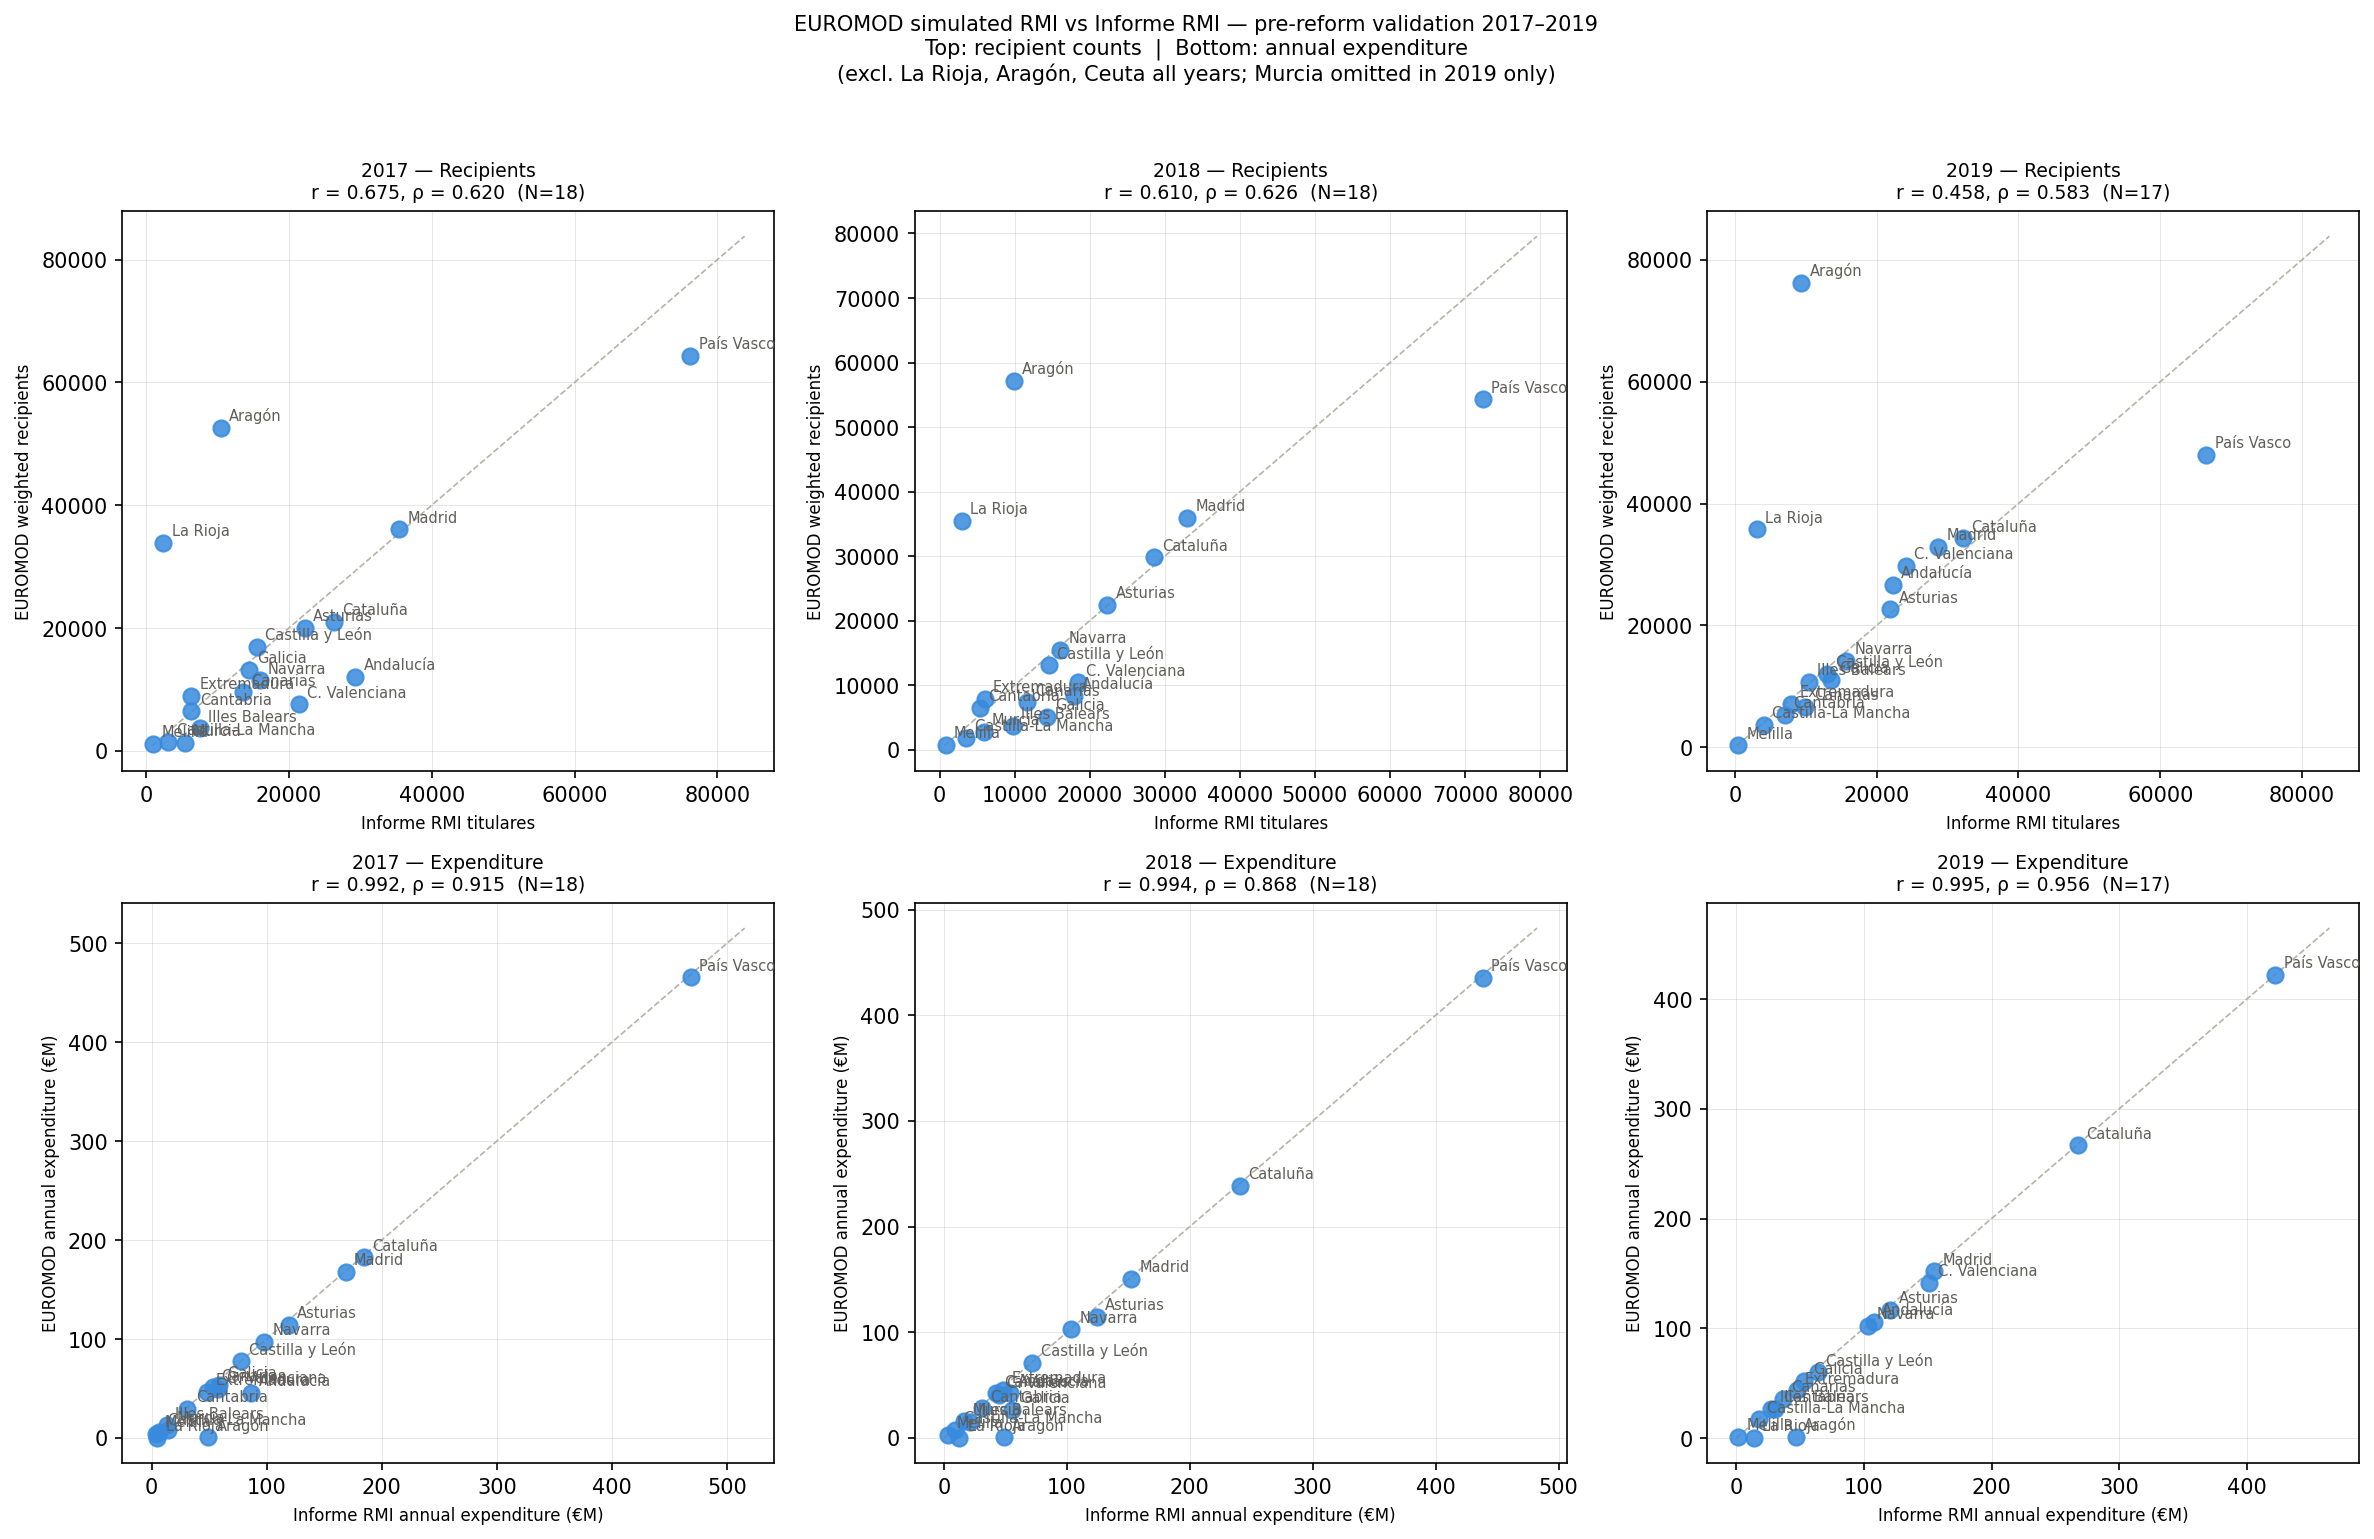
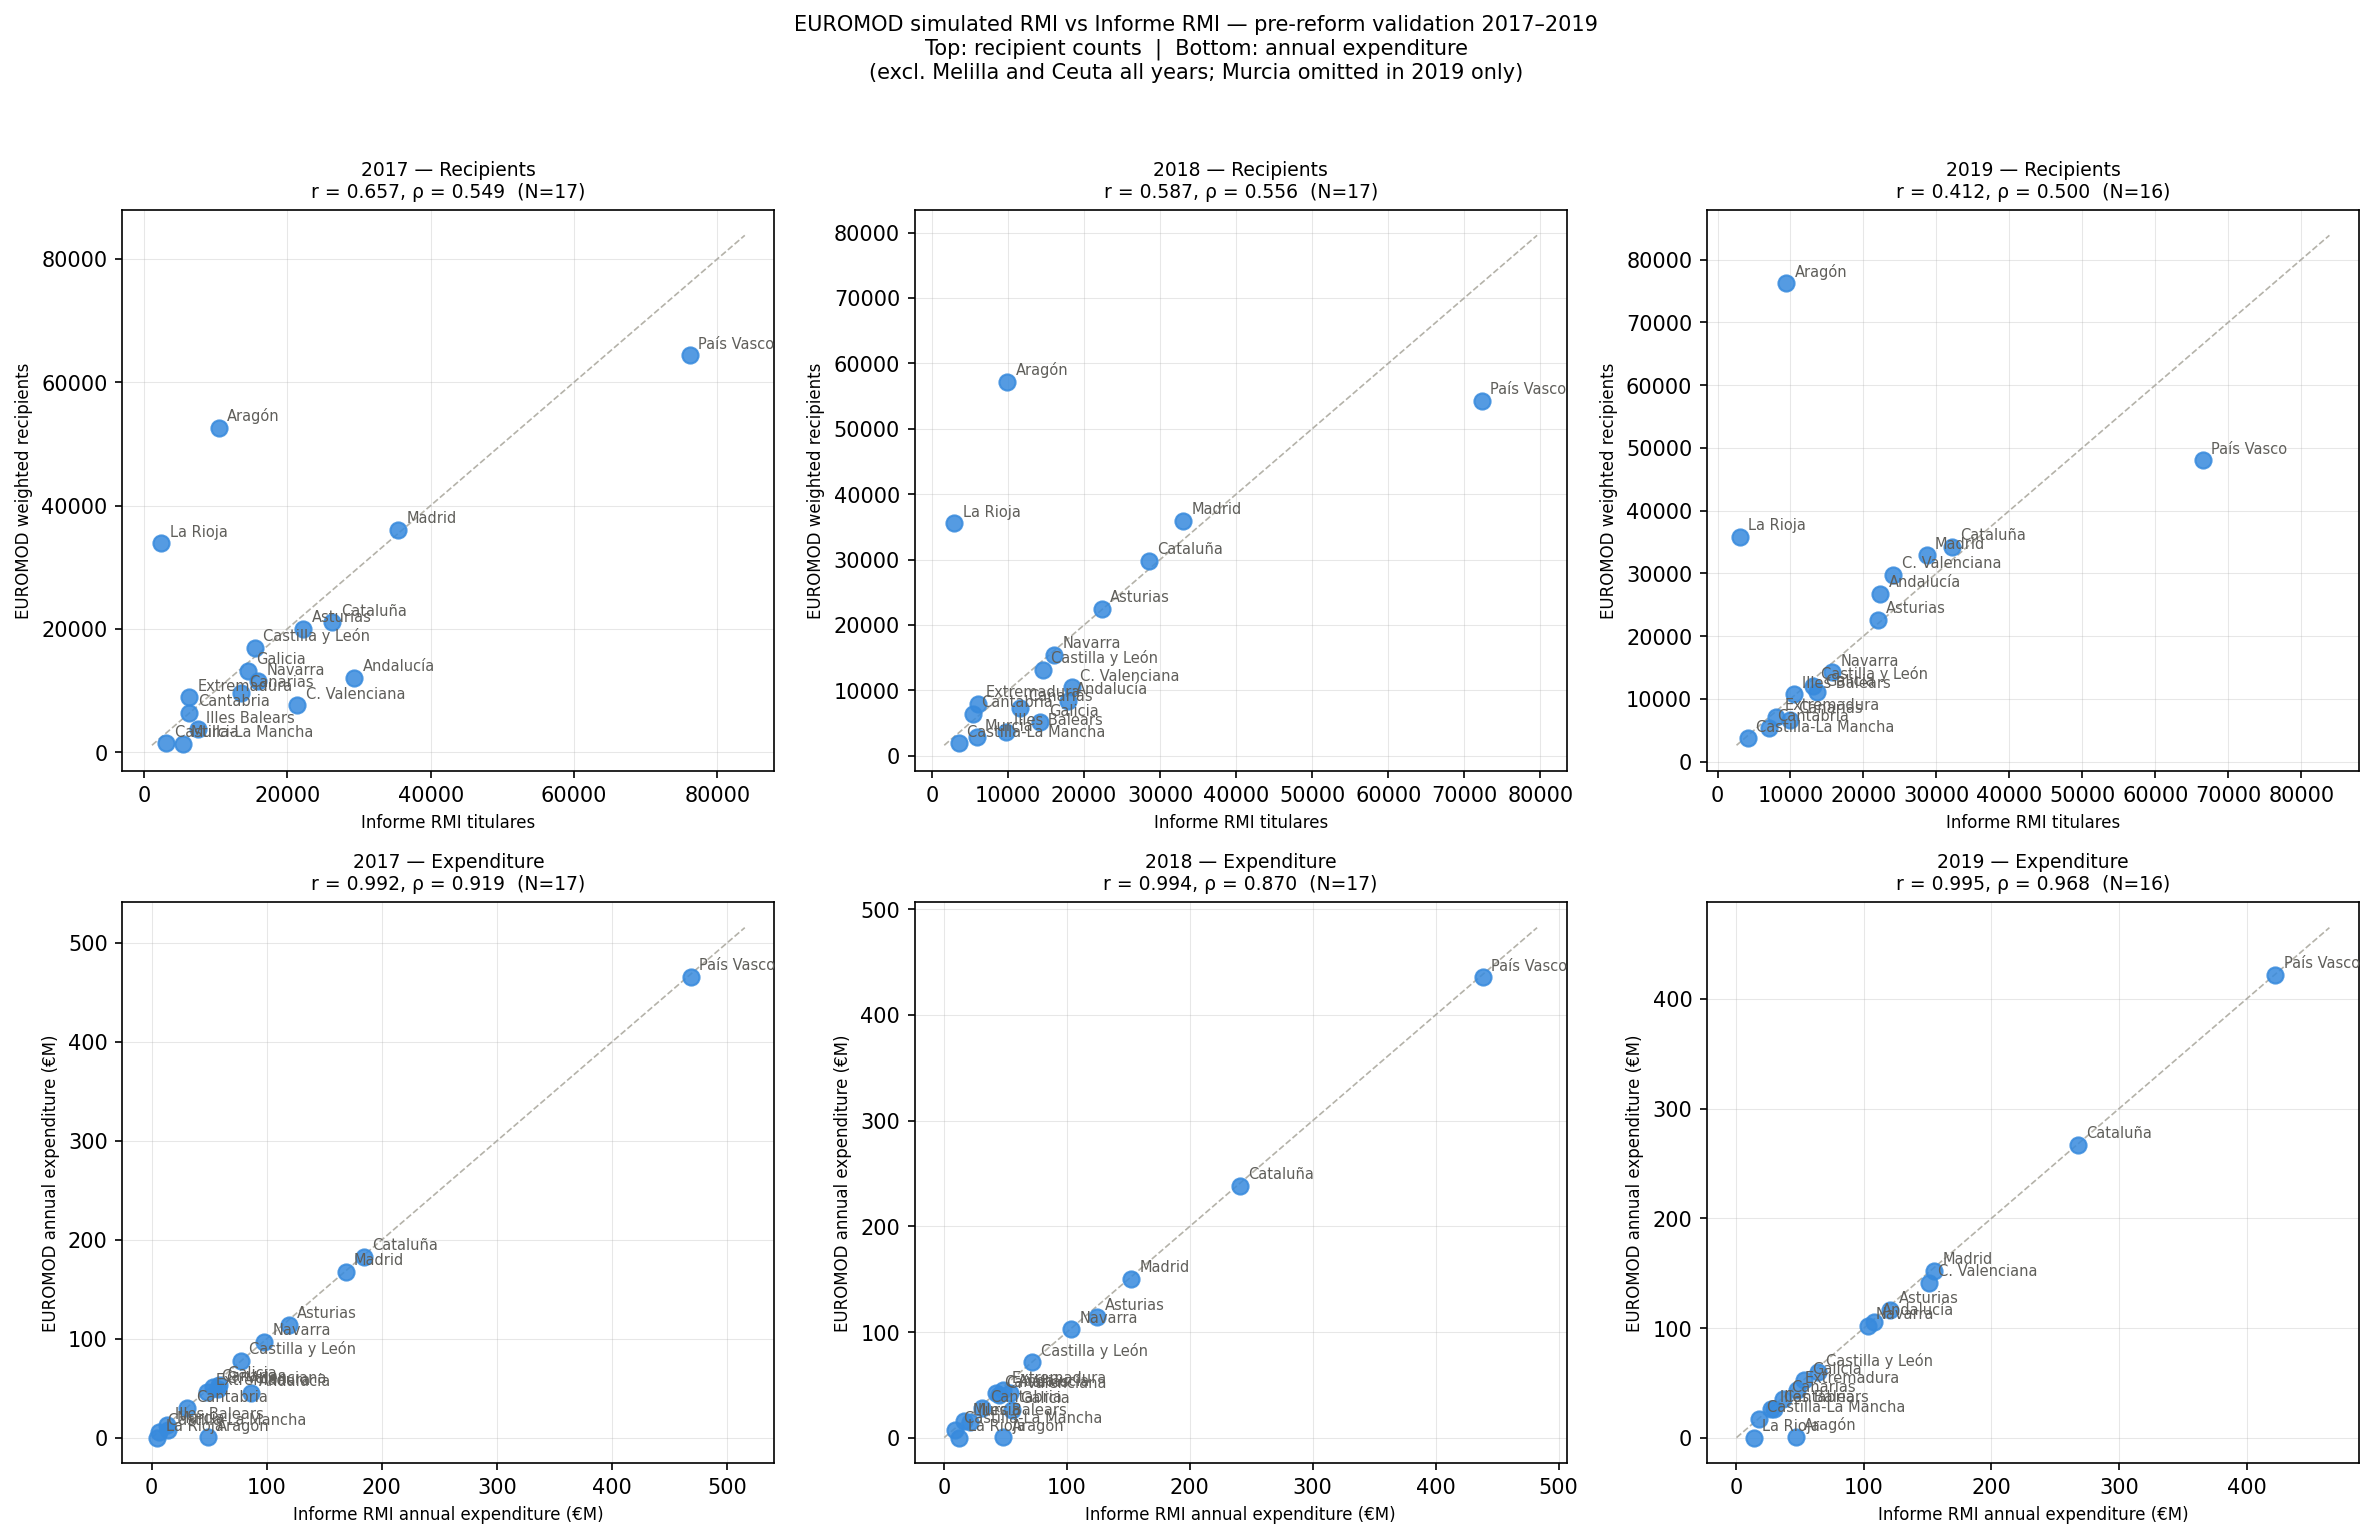
new results excluding Melilla

diff --git a/RMIeuromod_validation.py b/RMIeuromod_validation.py
@@ -154,7 +154,7 @@ def print_national_summary(year: int, euromod_df: pd.DataFrame) -> None:
         informe_excl["gasto_anual_ejecutado"] / 1_000_000
     ).sum()
 
-    logger.info("--- National summary (excl. La Rioja, Aragón, Ceuta) ---")
+    logger.info("--- National summary ---")
     logger.info(
         "  Target 1 — Recipients:  EUROMOD %10.0f | Informe %10.0f | ratio %.3f",
         weighted_recipients, informe_titulares,
@@ -309,6 +309,46 @@ def plot_validation(results: dict[int, pd.DataFrame]) -> None:
     logger.info("Saved validation plot → %s", out_path)
     plt.close()
 
+def diagnose_bsarg_unit(df: pd.DataFrame, year: int) -> None:
+    pos = df[df["bsarg_s"] > 0].copy()
+
+    logger.info("Year %s: positive bsarg_s person rows: %d", year, len(pos))
+    logger.info("Year %s: positive bsarg_s households: %d", year, pos["idhh"].nunique())
+
+    per_hh = (
+        df.groupby("idhh")
+        .agg(
+            n_persons=("idperson", "size"),
+            n_pos_bsarg=("bsarg_s", lambda s: (s > 0).sum()),
+            n_unique_pos_bsarg=("bsarg_s", lambda s: s[s > 0].nunique()),
+            max_bsarg=("bsarg_s", "max"),
+            sum_bsarg=("bsarg_s", "sum"),
+            dwt_nunique=("dwt", "nunique"),
+            drgn2_nunique=("drgn2", "nunique"),
+        )
+        .reset_index()
+    )
+
+    recipient_hh = per_hh[per_hh["max_bsarg"] > 0]
+
+    logger.info(
+        "Year %s: among recipient households, mean positive rows per household = %.2f",
+        year,
+        recipient_hh["n_pos_bsarg"].mean()
+    )
+
+    logger.info(
+        "Year %s: recipient households with >1 positive bsarg_s row: %d",
+        year,
+        (recipient_hh["n_pos_bsarg"] > 1).sum()
+    )
+
+    logger.info(
+        "Year %s: recipient households with multiple positive bsarg_s amounts: %d",
+        year,
+        (recipient_hh["n_unique_pos_bsarg"] > 1).sum()
+    )
+
 
 def main() -> None:
     logger.info(
@@ -336,6 +376,7 @@ def main() -> None:
             continue
 
         euromod_df = load_euromod_output(path)
+        diagnose_bsarg_unit(euromod_df, year)
         regional   = compute_regional_rmi(euromod_df)
         comparison = build_comparison(year, regional)
         corr       = compute_correlations(comparison)
